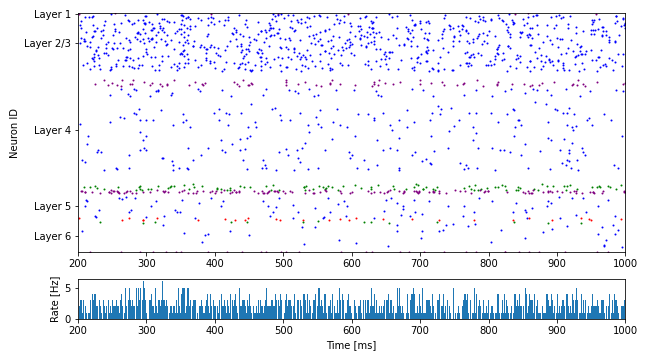
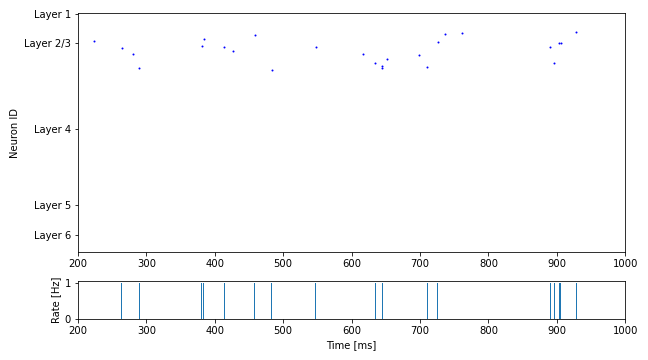
updated

diff --git a/simulation/setup.py b/simulation/setup.py
@@ -20,8 +20,8 @@ def setup():
         'verbose'    :  True,                                                       # Flag for verbose function output
         'K_scale'    :     1.,                                                      # Scaling factor for connections
         'syn_scale'  :     1.,                                                      # Scaling factor for synaptic strenghts
-        'N_scale'    :     0.01,                                                      # Scaling factor for the number of neurons
-        'R_scale'    :     1.0,                                                     # Fraction of neurons to be recorded from
+        'N_scale'    :     1.0,                                                      # Scaling factor for the number of neurons
+        'R_scale'    :     0.1,                                                     # Fraction of neurons to be recorded from
         'opt_run'    :   False,                                                     # Flag for optimizer run, run minimal settings
         'g'          :      4.,                                                     # Excitation-Inhibition balance
         'resolution' :   2**-3,                                                     # Resolution of the simulaton
@@ -46,23 +46,23 @@ def setup():
     # Connectivity matrix                
     params['connectivity'] = np.array(
         ## L1      L2E    L2I    L2I   L2I      L4E   L4I     L4I   L4I     L5E   L5I    L5I    L5I    L6E    L6I    L6I   L6I
-        [[0.656, 0.356, 0.093, 0.068, 0.4644, 0.148, 0    , 0    , 0    , 0.148, 0    , 0    , 0    , 0.148, 0    , 0    , 0    ],  ## L1
-         [0    , 0.16 , 0.395, 0.182, 0.105 , 0.016, 0.083, 0.083, 0.083, 0.083, 0.081, 0.102, 0    , 0    , 0    , 0    , 0    ],  ## L23E
-         [0.024, 0.411, 0.451, 0.03 , 0.22  , 0.05 , 0.05 , 0.05 , 0.05 , 0.07 , 0.073, 0    , 0    , 0    , 0    , 0    , 0    ],  ## L23I
-         [0.279, 0.424, 0.857, 0.082, 0.77  , 0.05 , 0.05 , 0.05 , 0.05 , 0.021, 0    , 0    , 0    , 0    , 0    , 0    , 0    ],  ## L23I
-         [0    , 0.087, 0.02 , 0.625, 0.028 , 0.05 , 0.05 , 0.05 , 0.05 , 0    , 0    , 0    , 0    , 0    , 0    , 0    , 0    ],  ## L23I
-         [0    , 0.14 , 0.100, 0.1  , 0.1   , 0.243, 0.43 , 0.571, 0.571, 0.104, 0.101, 0.128, 0.05 , 0.032, 0    , 0    , 0    ],  ## L4E
-         [0    , 0.25 , 0.050, 0.05 , 0.05  , 0.437, 0.451, 0.03 , 0.22 , 0.088, 0.091, 0.03 , 0.03 , 0    , 0    , 0    , 0    ],  ## L4I
-         [0.241, 0.25 , 0.050, 0.05 , 0.05  , 0.351, 0.857, 0.082, 0.47 , 0.026, 0.03 , 0    , 0.03 , 0    , 0    , 0    , 0    ],  ## L4I
-         [0    , 0.25 , 0.050, 0.05 , 0.05  , 0.351, 0.02 , 0.35 , 0.028, 0    , 0.03 , 0.03 , 0.03 , 0    , 0    , 0    , 0    ],  ## L4I
-         [0.017, 0.021, 0.05 , 0.05 , 0.05  , 0.007, 0.05 , 0.05 , 0.05 , 0.116, 0.083, 0.063, 0.105, 0.047, 0.03 , 0.03 , 0.03 ],  ## L5E       
-         [0    , 0    , 0.102, 0    , 0     , 0    , 0.034, 0.03 , 0.03 , 0.455, 0.361, 0.03 , 0.22 , 0.03 , 0.01 , 0.01 , 0.01 ],  ## L5I
-         [0.203, 0.169, 0    , 0.017, 0     , 0.056, 0.03 , 0.006, 0.03 , 0.317, 0.857, 0.04 , 0.77 , 0.03 , 0.01 , 0.01 , 0.01 ],  ## L5I
-         [0    , 0    , 0    , 0    , 0     , 0.03 , 0.03 , 0.03 , 0.03 , 0.125, 0.02 , 0.625, 0.02 , 0.03 , 0.01 , 0.01 , 0.01 ],  ## L5I
-         [0    , 0    , 0    , 0    , 0     , 0    , 0    , 0    , 0    , 0.012, 0.01 , 0.01 , 0.01 , 0.026, 0.145, 0.1  , 0.1  ],  ## L6E
-         [0    , 0.1  , 0    , 0    , 0     , 0.1  , 0    , 0    , 0    , 0.1  , 0.03 , 0.03 , 0.03 , 0.1  , 0.08 , 0.1  , 0.08 ],  ## L6I
-         [0    , 0    , 0    , 0    , 0     , 0    , 0    , 0    , 0    , 0.03 , 0.03 , 0.03 , 0.03 , 0.1  , 0.05 , 0.05 , 0.05 ],  ## L6I
-         [0    , 0    , 0    , 0    , 0     , 0    , 0    , 0    , 0    , 0.03 , 0.03 , 0.03 , 0.03 , 0.1  , 0.05 , 0.05 , 0.03 ]]) ## L6I
+        [[0.656, 0.356, 0.093, 0.068, 0.4644, 0.148, 0    , 0    , 0    , 0.148, 0    , 0    , 0    , 0.148, 0    , 0    , 0    ], ## L1
+         [0    , 0.16 , 0.395, 0.182, 0.105 , 0.016, 0.083, 0.083, 0.083, 0.083, 0.081, 0.102, 0    , 0    , 0    , 0    , 0    ], ## L23E
+         [0.024, 0.411, 0.451, 0.03 , 0.22  , 0.05 , 0.05 , 0.05 , 0.05 , 0.07 , 0.073, 0    , 0    , 0    , 0    , 0    , 0    ], ## L23I
+         [0.279, 0.424, 0.857, 0.082, 0.77  , 0.05 , 0.05 , 0.05 , 0.05 , 0.021, 0    , 0    , 0    , 0    , 0    , 0    , 0    ], ## L23I
+         [0    , 0.087, 0.02 , 0.625, 0.028 , 0.05 , 0.05 , 0.05 , 0.05 , 0    , 0    , 0    , 0    , 0    , 0    , 0    , 0    ], ## L23I
+         [0    , 0.14 , 0.100, 0.1  , 0.1   , 0.243, 0.43 , 0.571, 0.571, 0.104, 0.101, 0.128, 0.05 , 0.032, 0    , 0    , 0    ], ## L4E
+         [0    , 0.25 , 0.050, 0.05 , 0.05  , 0.437, 0.451, 0.03 , 0.22 , 0.088, 0.091, 0.03 , 0.03 , 0    , 0    , 0    , 0    ], ## L4I
+         [0.241, 0.25 , 0.050, 0.05 , 0.05  , 0.351, 0.857, 0.082, 0.77 , 0.026, 0.03 , 0    , 0.03 , 0    , 0    , 0    , 0    ], ## L4I
+         [0    , 0.25 , 0.050, 0.05 , 0.05  , 0.351, 0.02 , 0.625, 0.028, 0    , 0.03 , 0.03 , 0.03 , 0    , 0    , 0    , 0    ], ## L4I
+         [0.017, 0.021, 0.05 , 0.05 , 0.05  , 0.007, 0.05 , 0.05 , 0.05 , 0.116, 0.083, 0.063, 0.105, 0.047, 0.03 , 0.03 , 0.03 ], ## L5E
+         [0    , 0    , 0.102, 0    , 0     , 0    , 0.034, 0.03 , 0.03 , 0.455, 0.361, 0.03 , 0.22 , 0.03 , 0.01 , 0.01 , 0.01 ], ## L5I
+         [0.203, 0.169, 0    , 0.017, 0     , 0.056, 0.03 , 0.006, 0.03 , 0.317, 0.857, 0.04 , 0.77 , 0.03 , 0.01 , 0.01 , 0.01 ], ## L5I
+         [0    , 0    , 0    , 0    , 0     , 0.03 , 0.03 , 0.03 , 0.03 , 0.125, 0.02 , 0.625, 0.02 , 0.03 , 0.01 , 0.01 , 0.01 ], ## L5I
+         [0    , 0    , 0    , 0    , 0     , 0    , 0    , 0    , 0    , 0.012, 0.01 , 0.01 , 0.01 , 0.026, 0.145, 0.1  , 0.1  ], ## L6E
+         [0    , 0.1  , 0    , 0    , 0     , 0.1  , 0    , 0    , 0    , 0.1  , 0.03 , 0.03 , 0.03 , 0.1  , 0.08 , 0.1  , 0.08 ], ## L6I
+         [0    , 0    , 0    , 0    , 0     , 0    , 0    , 0    , 0    , 0.03 , 0.03 , 0.03 , 0.03 , 0.1  , 0.05 , 0.05 , 0.05 ], ## L6I
+         [0    , 0    , 0    , 0    , 0     , 0    , 0    , 0    , 0    , 0.03 , 0.03 , 0.03 , 0.03 , 0.1  , 0.05 , 0.05 , 0.03 ]])## L6I
     
     ################################
     ## Specify synapse properties ##
@@ -88,31 +88,31 @@ def setup():
     
     ## Synaptic strength
     params['syn_strength'] = np.array(
-        ##L1      L2E   L2I   L2I   L2I   L4E   L4I   L4I   L4I   L5E   L5I   L5I   L5I   L6E   L6I   L6I   L6I
-        [[1.73  , 0.53, 0.48, 0.57, 0.78, 0.42, 0   , 0   , 0   , 0.42, 0   , 0   , 0   , 0.42, 0   , 0   , 0   ],  ## L1
-         [0     , 0.36, 1.49, 0.86, 1.31, 0.34, 1.39, 0.69, 0.91, 0.74, 1.32, 0.53, 0   , 0   , 0   , 0   , 0   ],  ## L23E
-         [0.37  , 0.48, 0.68, 0.42, 0.41, 0.56, 0.68, 0.42, 0.41, 0.2 , 0.79, 0   , 0   , 0   , 0   , 0   , 0   ],  ## L23I
-         [0.47  , 0.31, 0.5 , 0.15, 0.52, 0.3 , 0.5 , 0.15, 0.52, 0.22, 0   , 0   , 0   , 0   , 0   , 0   , 0   ],  ## L23I
-         [0     , 0.28, 0.18, 0.32, 0.37, 0.29, 0.18, 0.32, 0.37, 0   , 0   , 0   , 0   , 0   , 0   , 0   , 0   ],  ## L23I
-         [0     , 0.78, 1.39, 0.69, 0.91, 0.83, 1.29, 0.49, 0.49, 0.63, 1.25, 0.52, 0.91, 0.96, 0   , 0   , 0   ],  ## L4E
-         [0     , 0.56, 0.68, 0.42, 0.41, 0.64, 0.68, 0.38, 0.38, 0.73, 0.94, 0.42, 0.41, 0   , 0   , 0   , 0   ],  ## L4I
-         [0.39  , 0.3 , 0.5 , 0.15, 0.52, 0.29, 0.5 , 0.15, 0.33, 0.28, 0.45, 0.28, 0.52, 0   , 0   , 0   , 0   ],  ## L4I
-         [0     , 0.29, 0.18, 0.32, 0.37, 0.29, 0.18, 0.23, 0.37, 0   , 0.18, 0.33, 0.37, 0   , 0   , 0   , 0   ],  ## L4I
-         [0.76  , 0.47, 1.25, 0.52, 0.91, 0.38, 1.25, 0.52, 0.91, 0.75, 1.2 , 0.52, 1.31, 0.4 , 2.5 , 0.52, 1.31],  ## L5E
-         [0     , 0   , 0.51, 0   , 0   , 0   , 0.94, 0.42, 0.41, 0.81, 1.19, 0.41, 0.41, 0.81, 1.19, 0.41, 0.41],  ## L5I
-         [0.31  , 0.25, 0   , 0.39, 0   , 0.28, 0.45, 0.28, 0.52, 0.27, 0.4 , 0.4 , 0.52, 0.27, 0.4 , 0.4 , 0.52],  ## L5I
-         [0     , 0   , 0   , 0   , 0   , 0.29, 0.18, 0.33, 0.37, 0.28, 0.18, 0.33, 0.37, 0.28, 0.18, 0.33, 0.37],  ## L5I
-         [0     , 0   , 0   , 0   , 0   , 0   , 0   , 0   , 0   , 0.23, 2.5 , 0.52, 1.31, 0.94, 3.8 , 0.52, 1.31],  ## L6E
-         [0     , 0.81, 0   , 0   , 0   , 0.81, 0   , 0   , 0   , 0.81, 1.19, 0.41, 0.41, 0.81, 1.19, 0.41, 0.41],  ## L6I
-         [0     , 0   , 0   , 0   , 0   , 0   , 0   , 0   , 0   , 0.27, 0.4 , 0.4 , 0.52, 0.27, 0.4 , 0.4 , 0.52],  ## L6I
-         [0     , 0   , 0   , 0   , 0   , 0   , 0   , 0   , 0   , 0.28, 0.18, 0.33, 0.37, 0.28, 0.18, 0.33, 0.37]]) ## L6I
+        ##L1     L2E   L2I   L2I   L2I   L4E   L4I   L4I   L4I   L5E   L5I   L5I   L5I   L6E   L6I   L6I   L6I
+        [[1.73 , 0.53, 0.48, 0.57, 0.78, 0.42, 0   , 0   , 0   , 0.42, 0   , 0   , 0   , 0.42, 0   , 0   , 0   ],  ## L1
+         [0    , 0.36, 1.49, 0.86, 1.31, 0.34, 1.39, 0.69, 0.91, 0.74, 1.32, 0.53, 0   , 0   , 0   , 0   , 0   ],  ## L23E
+         [0.37 , 0.48, 0.68, 0.42, 0.41, 0.56, 0.68, 0.42, 0.41, 0.2 , 0.79, 0   , 0   , 0   , 0   , 0   , 0   ],  ## L23I
+         [0.47 , 0.31, 0.5 , 0.15, 0.52, 0.3 , 0.5 , 0.15, 0.52, 0.22, 0   , 0   , 0   , 0   , 0   , 0   , 0   ],  ## L23I
+         [0    , 0.28, 0.18, 0.32, 0.37, 0.29, 0.18, 0.32, 0.37, 0   , 0   , 0   , 0   , 0   , 0   , 0   , 0   ],  ## L23I
+         [0    , 0.78, 1.39, 0.69, 0.91, 0.83, 1.29, 0.51, 0.51, 0.63, 1.25, 0.52, 0.91, 0.96, 0   , 0   , 0   ],  ## L4E
+         [0    , 0.56, 0.68, 0.42, 0.41, 0.64, 0.68, 0.42, 0.41, 0.73, 0.94, 0.42, 0.41, 0   , 0   , 0   , 0   ],  ## L4I
+         [0.39 , 0.3 , 0.5 , 0.15, 0.52, 0.29, 0.5 , 0.15, 0.52, 0.28, 0.45, 0.28, 0.52, 0   , 0   , 0   , 0   ],  ## L4I
+         [0    , 0.29, 0.18, 0.32, 0.37, 0.29, 0.18, 0.32, 0.37, 0   , 0.18, 0.33, 0.37, 0   , 0   , 0   , 0   ],  ## L4I
+         [0.76 , 0.47, 1.25, 0.52, 0.91, 0.38, 1.25, 0.52, 0.91, 0.75, 1.2 , 0.52, 1.31, 0.4 , 2.5 , 0.52, 1.31],  ## L5E
+         [0    , 0   , 0.51, 0   , 0   , 0   , 0.94, 0.42, 0.41, 0.81, 1.19, 0.41, 0.41, 0.81, 1.19, 0.41, 0.41],  ## L5I
+         [0.31 , 0.25, 0   , 0.39, 0   , 0.28, 0.45, 0.28, 0.52, 0.27, 0.4 , 0.4 , 0.52, 0.27, 0.4 , 0.4 , 0.52],  ## L5I
+         [0    , 0   , 0   , 0   , 0   , 0.29, 0.18, 0.33, 0.37, 0.28, 0.18, 0.33, 0.37, 0.28, 0.18, 0.33, 0.37],  ## L5I
+         [0    , 0   , 0   , 0   , 0   , 0   , 0   , 0   , 0   , 0.23, 2.5 , 0.52, 1.31, 0.94, 3.8 , 0.52, 1.31],  ## L6E
+         [0    , 0.81, 0   , 0   , 0   , 0.81, 0   , 0   , 0   , 0.81, 1.19, 0.41, 0.41, 0.81, 1.19, 0.41, 0.41],  ## L6I
+         [0    , 0   , 0   , 0   , 0   , 0   , 0   , 0   , 0   , 0.27, 0.4 , 0.4 , 0.52, 0.27, 0.4 , 0.4 , 0.52],  ## L6I
+         [0    , 0   , 0   , 0   , 0   , 0   , 0   , 0   , 0   , 0.28, 0.18, 0.33, 0.37, 0.28, 0.18, 0.33, 0.37]]) ## L6I
     
     
     #######################################
     ## Background stimulation parameters ##
     #######################################
 
-    params['ext_rate'] = 0.5
+    params['ext_rate'] = 1.0
     params['ext_nodes']   = np.array([2000, 
                                       1400, 2000, 1400, 1400, 
                                       1500, 2100, 2100, 1500, 

diff --git a/simulation/run.py b/simulation/run.py
@@ -15,7 +15,7 @@ from functions import Network, plot_LFPs, raster, rate, approximate_lfp_timecour
 #import icsd
 import time
 from prep_LFP_kernel import prep_LFP_kernel
-
+import os
 import pickle
 
 def run_network():
@@ -161,9 +161,10 @@ def run_network():
     
     # mm_res    = comm.gather(mmdata, root=0)
     # spike_res = comm.gather(spikes, root=0)
-    with open(f"mmdata_{rank}", 'wb') as f:
-        pickle.dump(mmdata, f)
-    with open(f"spikes_{rank}", 'wb') as f:
+    if params['calc_lfp']:
+        with open(f"tmp/mmdata_{rank}", 'wb') as f:
+            pickle.dump(mmdata, f)
+    with open(f"tmp/spikes_{rank}", 'wb') as f:
         pickle.dump(spikes, f)
     if params['verbose']:
         print(f"rank {rank} finished!")
@@ -176,16 +177,16 @@ def run_network():
     ## Gather results and write to disk
     if rank == 0:
         ## read in results
-        mm_file_names = [f for f in os.listdir() if os.path.isfile(f) and f.startswith("mmdata_")]
-        spike_file_names = [f for f in os.listdir() if os.path.isfile(f) and f.startswith("spikes_")]
+        mm_file_names = [f for f in os.listdir("tmp") if f.startswith("mmdata_")]
+        spike_file_names = [f for f in os.listdir("tmp") if f.startswith("spikes_")]
         
         spikes_gathered = []
         mmdata_gathered = []
         for i in range(len(spike_file_names)):
             if params['calc_lfp']:
-                with open(f"mmdata_{i}", 'rb') as f:
+                with open(f"tmp/mmdata_{i}", 'rb') as f:
                     mmdata_gathered.append(pickle.load(f))
-            with open(f"spikes_{i}", 'rb') as f:
+            with open(f"tmp/spikes_{i}", 'rb') as f:
                 spikes_gathered.append(pickle.load(f))
         
         ## join the results
@@ -224,7 +225,7 @@ def run_network():
                     print("Done! Estimating LFPs per layer...")
                 
                 ## Only care about synaptic currents if we do LFPs
-                mmdata = join_results(mm_res)
+                mmdata = join_results(mmdata_gathered)
                 
                 print(network.multimeters)
                 
@@ -285,15 +286,15 @@ def run_network():
                 
                 newlst = np.array([lfp_tc_l1, lfp_tc_l23, lfp_tc_l4, lfp_tc_l5, lfp_tc_l6])
                 
-    irregularity = [get_irregularity(population) for population in spikes]
-    firing_rate  = [get_firing_rate(population, params['rec_start'], params['rec_stop']) for population in spikes]
-    synchrony    = [get_synchrony(population, params['rec_start'], params['rec_stop']) for population in spikes]
+        irregularity = [get_irregularity(population) for population in spikes]
+        firing_rate  = [get_firing_rate(population, params['rec_start'], params['rec_stop']) for population in spikes]
+        synchrony    = [get_synchrony(population, params['rec_start'], params['rec_stop']) for population in spikes]
     
-    ## Write results to file
-    with open("sim_results", 'wb') as f:
-        data = (irregularity, synchrony, firing_rate)
-        pickle.dump(data, f)
-    return (irregularity, synchrony, firing_rate)
+        ## Write results to file
+        with open("sim_results", 'wb') as f:
+            data = (irregularity, synchrony, firing_rate)
+            pickle.dump(data, f)
+        return (irregularity, synchrony, firing_rate)
      
 #from setup import setup
 #setup()
